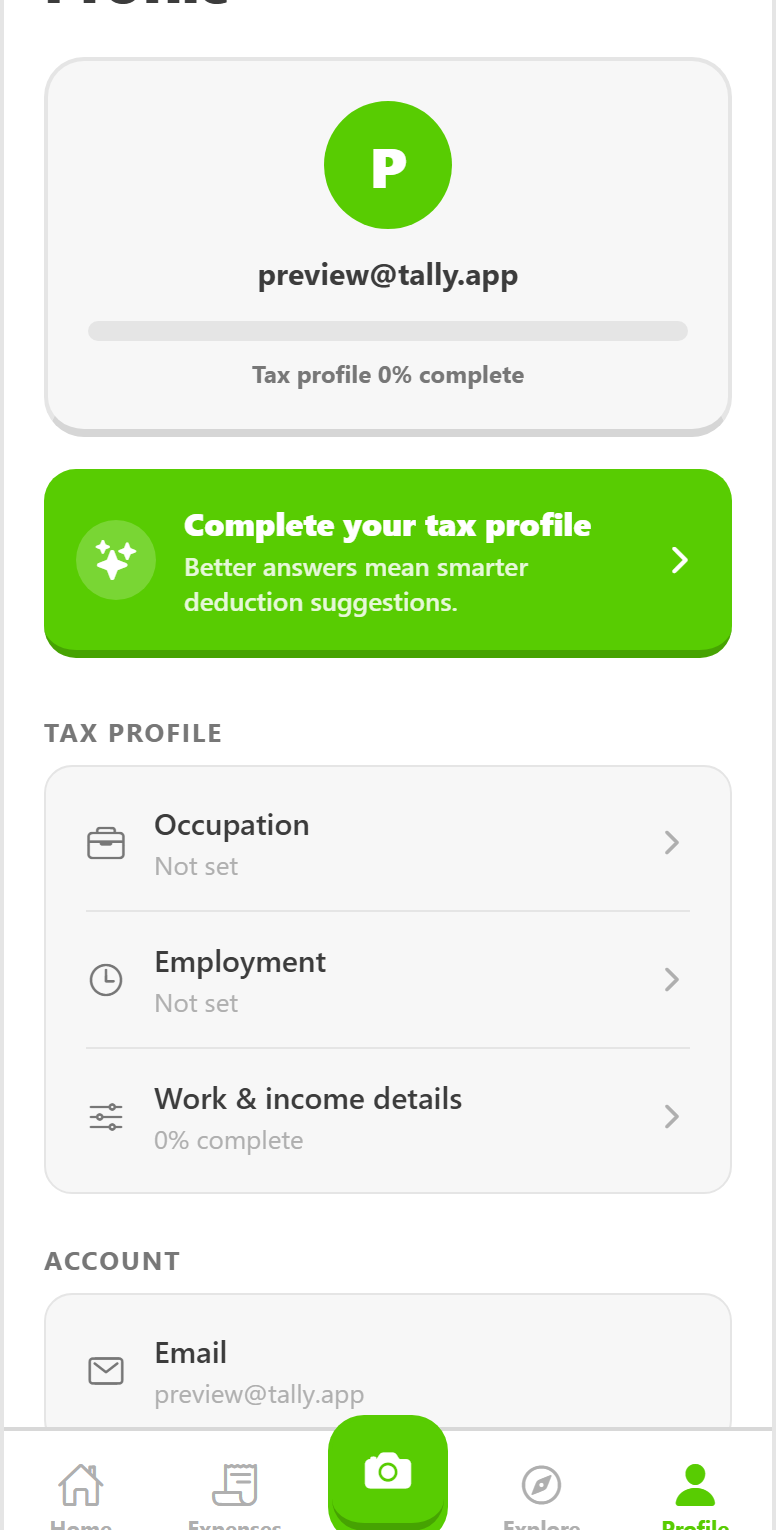
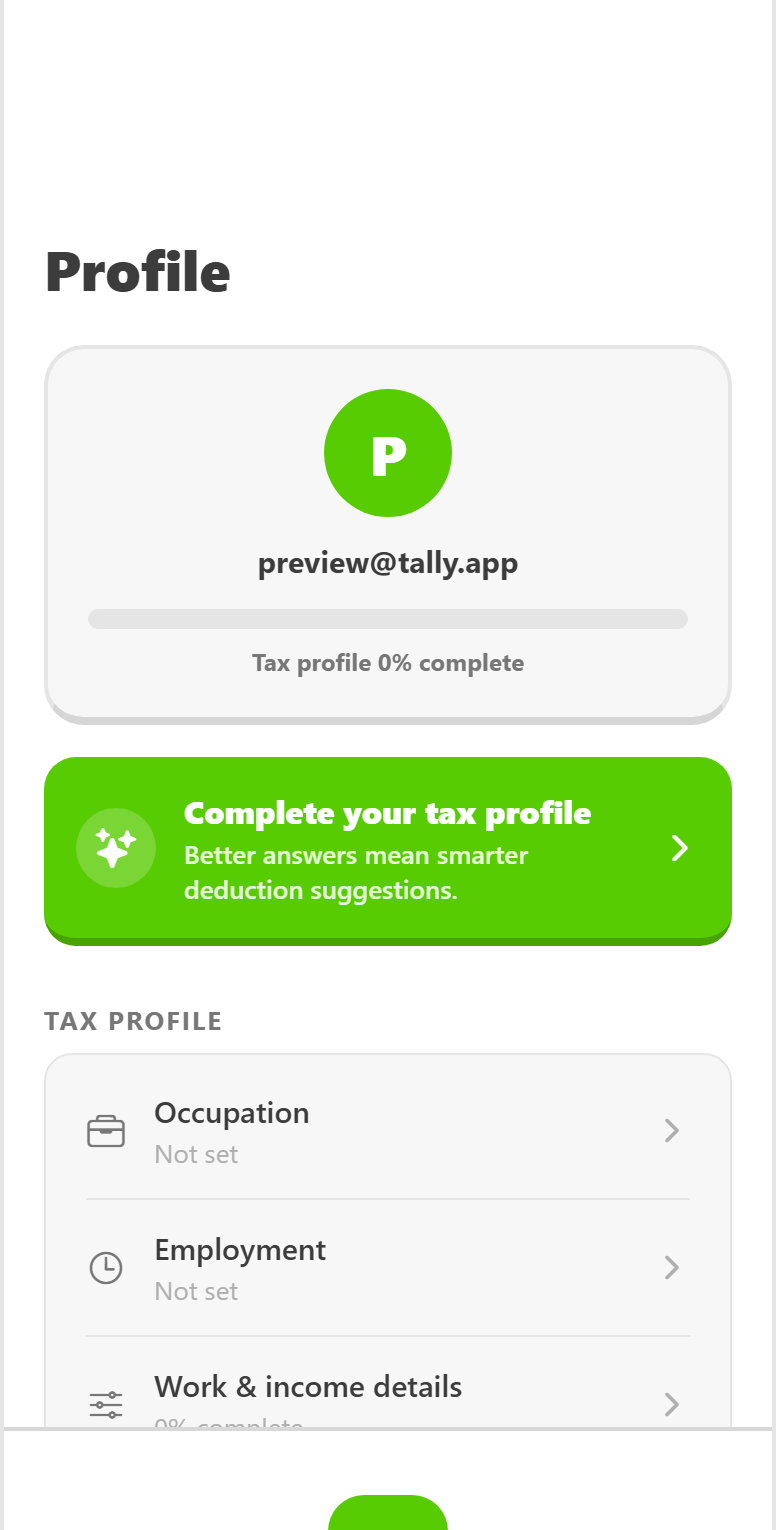
fix: iPhone responsiveness + re-capture app screens with top spacing
- Hero: stack on mobile (flex-col) with min-w-0 so it can't overflow; smaller
  headline on small screens; add body overflow-x-hidden safety net
- Re-capture Home/Explore/Profile screens with top breathing room so headers
  and the mascot aren't jammed against the phone-mockup top edge

diff --git a/components/Hero.tsx b/components/Hero.tsx
@@ -6,12 +6,12 @@ export function Hero() {
   return (
     <section className="relative overflow-hidden">
       <div className="absolute inset-0 -z-10 bg-gradient-to-b from-[#eafce0] via-[#f4fded] to-white" />
-      <div className="mx-auto grid max-w-6xl gap-12 px-5 pb-20 pt-14 md:grid-cols-2 md:items-center md:pb-28 md:pt-20">
-        <div>
+      <div className="mx-auto flex max-w-6xl flex-col gap-12 px-5 pb-20 pt-14 md:grid md:grid-cols-2 md:items-center md:pb-28 md:pt-20">
+        <div className="min-w-0">
           <span className="mb-5 inline-block rounded-full bg-brand/15 px-3 py-1 text-sm font-extrabold text-brand-dark">
             🇦🇺 Built for Aussie taxpayers
           </span>
-          <h1 className="text-5xl font-black leading-[1.05] tracking-tight md:text-6xl">
+          <h1 className="text-4xl font-black leading-[1.05] tracking-tight sm:text-5xl md:text-6xl">
             Tax, without the <span className="text-brand">panic.</span>
           </h1>
           <p className="mt-5 max-w-md text-lg font-semibold text-ink-soft md:text-xl">

diff --git a/app/layout.tsx b/app/layout.tsx
@@ -49,7 +49,7 @@ export default function RootLayout({
 }>) {
   return (
     <html lang="en-AU" className={`${nunito.variable} h-full antialiased`}>
-      <body className="min-h-full flex flex-col bg-white text-ink">{children}</body>
+      <body className="min-h-full flex flex-col overflow-x-hidden bg-white text-ink">{children}</body>
     </html>
   );
 }